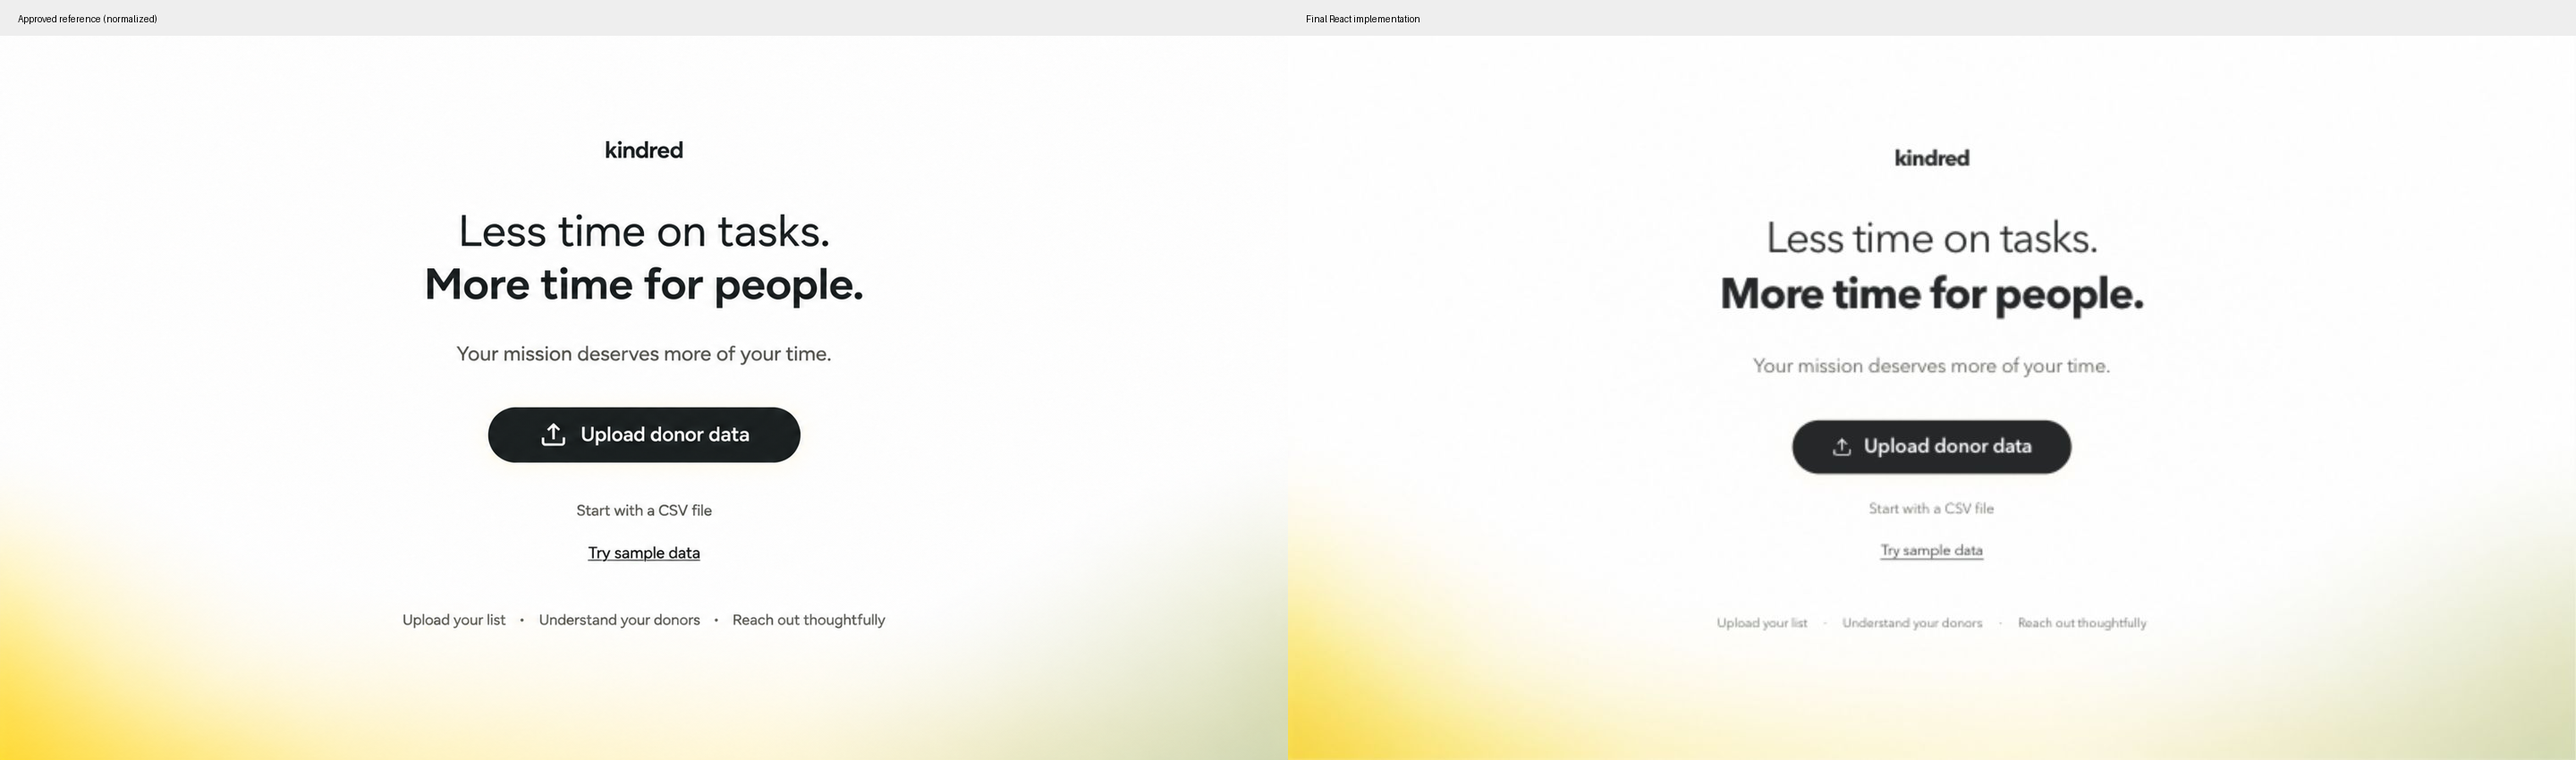
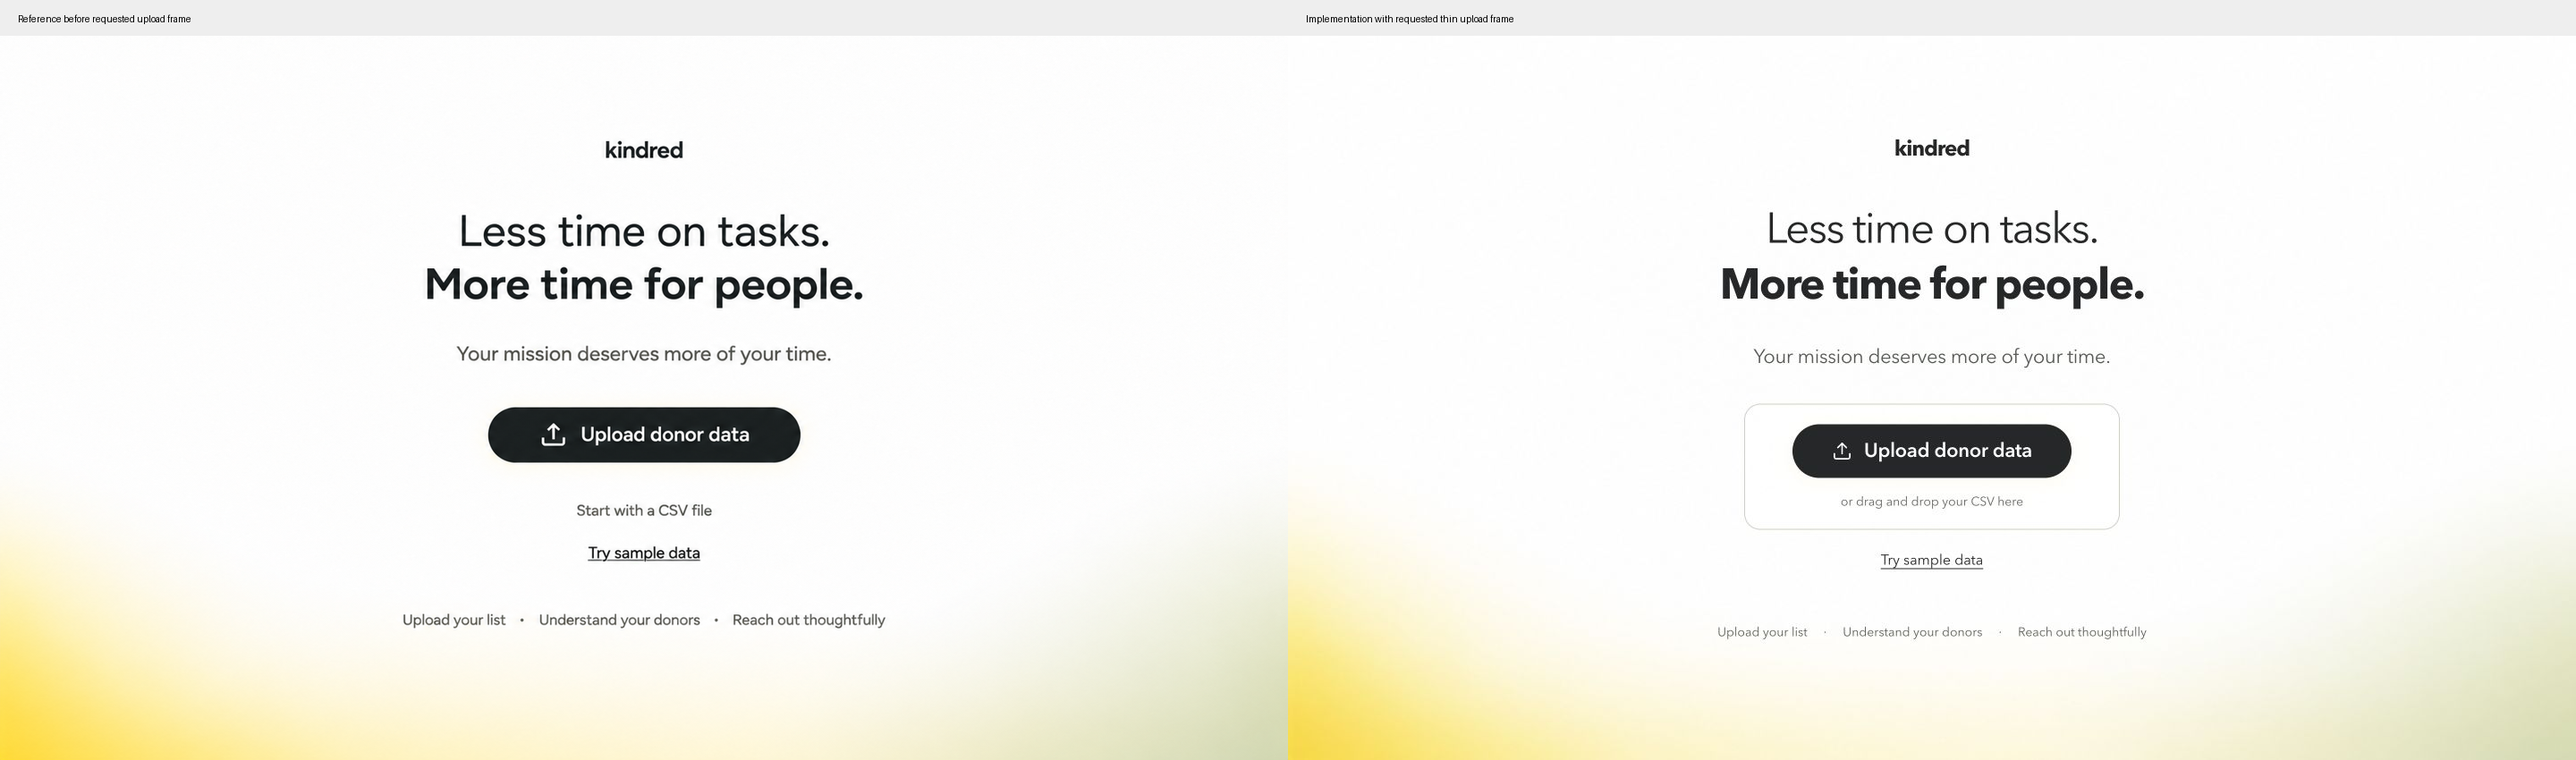
feat: add thin framed CSV drop area to landing page

diff --git a/web/src/components/atomic-crm/landing/KindredLanding.tsx b/web/src/components/atomic-crm/landing/KindredLanding.tsx
@@ -1,5 +1,6 @@
 import { useState, useSyncExternalStore, type ReactNode } from "react";
 import { Upload } from "lucide-react";
+import { useDropzone } from "react-dropzone";
 
 import {
   Dialog,
@@ -30,6 +31,22 @@ export const KindredLanding = () => {
   const [error, setError] = useState("");
   const [result, setResult] = useState<IngestResult | null>(null);
   const canUpload = DATA_MODE === "local";
+  const { getRootProps, getInputProps, open, isDragActive } = useDropzone({
+    accept: { "text/csv": [".csv"] },
+    multiple: false,
+    noClick: true,
+    noKeyboard: true,
+    disabled: pending,
+    onDrop: (accepted, rejected) => {
+      setResult(null);
+      setError("");
+      if (canUpload) {
+        setFile(accepted[0] ?? null);
+        if (rejected.length) setError("Please choose one CSV file at a time.");
+      }
+      setUploadOpen(true);
+    },
+  });
 
   const importDonors = async () => {
     if (!canUpload || !file || pending) return;
@@ -59,15 +76,38 @@ export const KindredLanding = () => {
         <p className="kindred-subtitle">
           Your mission deserves more of your time.
         </p>
-        <button
-          className="kindred-upload"
-          type="button"
-          onClick={() => setUploadOpen(true)}
+        <div
+          {...getRootProps({
+            className: `kindred-dropzone${isDragActive ? " is-dragging" : ""}`,
+            role: "group",
+            "aria-label": "Donor CSV drop area",
+          })}
         >
-          <Upload aria-hidden="true" size={23} strokeWidth={1.7} />
-          Upload donor data
-        </button>
-        <p className="kindred-file-hint">Start with a CSV file</p>
+          <input
+            {...getInputProps({
+              "aria-label": "Choose donor CSV",
+              disabled: !canUpload || pending,
+            })}
+          />
+          <button
+            className="kindred-upload"
+            type="button"
+            onClick={() => {
+              setResult(null);
+              setError("");
+              if (canUpload) open();
+              else setUploadOpen(true);
+            }}
+          >
+            <Upload aria-hidden="true" size={23} strokeWidth={1.7} />
+            Upload donor data
+          </button>
+          <p className="kindred-file-hint" aria-live="polite">
+            {isDragActive
+              ? "Drop your CSV here"
+              : "or drag and drop your CSV here"}
+          </p>
+        </div>
         <a className="kindred-sample" href="#/">
           Try sample data
         </a>
@@ -109,13 +149,14 @@ export const KindredLanding = () => {
                 id="kindred-csv"
                 type="file"
                 accept=".csv,text/csv"
-                required
+                required={!file}
                 disabled={pending}
                 onChange={(event) => {
                   setFile(event.target.files?.[0] ?? null);
                   setError("");
                 }}
               />
+              {file && <p role="status">Selected: {file.name}</p>}
               {error && <p role="alert">{error}</p>}
               <button
                 className="kindred-upload"

diff --git a/web/src/components/atomic-crm/landing/kindred-landing.css b/web/src/components/atomic-crm/landing/kindred-landing.css
@@ -60,6 +60,34 @@
   color: #545b51;
 }
 
+.kindred-dropzone {
+  inline-size: min(100%, 420px);
+  margin-block-start: 36px;
+  padding: 22px 24px 20px;
+  border: 1px solid #cbd0bf;
+  border-radius: 18px;
+  background: rgb(255 255 255 / 60%);
+  transition:
+    border-color 150ms ease,
+    background-color 150ms ease;
+}
+
+.kindred-dropzone.is-dragging,
+.kindred-dropzone:focus-within {
+  border-color: #697b55;
+  background: #fafbf6;
+}
+
+.kindred-dropzone .kindred-upload {
+  margin-block-start: 0;
+  max-inline-size: 100%;
+}
+
+.kindred-dropzone .kindred-file-hint {
+  margin-block-start: 16px;
+  font-size: 14px;
+}
+
 .kindred-upload {
   display: inline-flex;
   justify-content: center;
@@ -200,6 +228,15 @@
     padding-inline: 26px;
   }
 
+  .kindred-dropzone {
+    margin-block-start: 30px;
+    padding: 20px 16px 18px;
+  }
+
+  .kindred-dropzone .kindred-file-hint {
+    font-size: 13px;
+  }
+
   .kindred-file-hint {
     margin-block-start: 22px;
     font-size: 13px;
@@ -239,6 +276,10 @@
   .kindred-upload {
     margin-block-start: 28px;
   }
+  .kindred-dropzone {
+    margin-block-start: 28px;
+    padding-block: 18px;
+  }
   .kindred-file-hint {
     margin-block-start: 20px;
   }
@@ -251,7 +292,8 @@
 }
 
 @media (prefers-reduced-motion: reduce) {
-  .kindred-upload {
+  .kindred-upload,
+  .kindred-dropzone {
     transition: none;
   }
 }

diff --git a/docs/design/landing/design-qa.md b/docs/design/landing/design-qa.md
@@ -6,20 +6,21 @@ final result: passed
 
 This report covers the new landing entry in the primary React app (`web/`), not the separate static Kindred or outreach-inbox prototypes. The existing repository-root QA report for the older standalone prototype is unchanged.
 
-- Approved reference: `approved-reference.png`, 1672 × 941 pixels. White canvas, charcoal text/button, yellow/olive corner glows, very faded button backlight, and the user's final headline/subheadline.
+- Approved reference: `approved-reference.png`, 1672 × 941 pixels. White canvas, charcoal text/button, yellow/olive corner glows, very faded button backlight, and the user's final headline/subheadline. The subsequent explicit request adds a thin framed CSV drop area around the upload controls.
 - Implementation: `http://127.0.0.1:5174/`, using the existing `dev:demo` runtime.
 - Desktop: `desktop.png`, 1440 × 810 CSS/pixel viewport, device pixel ratio 1.
 - Phone: `mobile.png`, 390 × 844 CSS/pixel viewport, device pixel ratio 1.
 - Full comparison: `comparison.png`; reference proportionally normalized to 1440 × 810 alongside the implementation, with a 40px label strip.
 - Readable central crop comparison: `comparison-detail.png`; both normalized images cropped to the same 900 × 570 region.
-- Upload-dialog evidence: `upload-dialog.png`, snapshot mode. A later typography adjustment affects the background page, not the dialog tested here.
+- Upload-dialog evidence: `upload-dialog.png`, snapshot mode. Current screenshot includes the framed upload area behind the dialog.
 - State: initial landing page, light appearance, no selection/hover. Browser viewport overrides reset after verification.
 
 ## Findings and iteration history
 
 1. Initial comparison found supporting text and CTA too small relative to the approved still. Increased the supporting line from 19px to 22px; CTA label from 18px to 22px, its height from 56px to 60px, and horizontal padding from 34px to 44px. Helper/sample text increased from 14px to 16px.
 2. Shifted the centered content group upward 10px after the scale adjustment. The final paired full-view and focused comparisons retain generous section spacing and all information within the viewport.
-3. Final comparison: no actionable P0/P1/P2 findings. The actual font glyphs and separately generated ambient backdrop vary slightly from the raster reference (P3).
+3. Follow-up: added the requested 1px olive frame with an 18px radius around the upload controls, plus a drag-active treatment through the existing react-dropzone library. Rechecked all four viewports; the layout still fits without scrolling. This frame intentionally extends the supplied still in response to the user's request.
+4. Final comparison: no actionable P0/P1/P2 findings. The actual font glyphs and separately generated ambient backdrop vary slightly from the raster reference (P3).
 
 ## Required fidelity surfaces
 
@@ -27,7 +28,7 @@ This report covers the new landing entry in the primary React app (`web/`), not 
 - **Spacing/layout:** one centered content group on a full white canvas, with a small wordmark, headline, supporting line, one primary action, helper, sample link and quiet process line. No app rail or dashboard is shown on the landing page. Desktop 1440 × 810 and 1280 × 720, and phones 390 × 844 and 375 × 667, all have document dimensions equal to viewport dimensions: no scrolling or clipped content at those sizes. Smaller or text-zoomed views can scroll rather than losing content.
 - **Colors/tokens:** white surface, charcoal typography/CTA, muted olive secondary text, generated yellow/olive corner light. The button backlight is deliberately a faint 8% yellow shadow. Focus outlines use a visible olive tone. The existing workspace theme is not restyled.
 - **Image/assets:** the backdrop was generated with the built-in image tool from the approved reference; it contains no text, UI, shapes or center halo. The upload icon comes from the app's existing Lucide library. The layout does not replace imagery with CSS-drawn blobs or gradients.
-- **Copy/content:** exact user-approved headline “Less time on tasks. More time for people.” and subheadline “Your mission deserves more of your time.” Primary action remains “Upload donor data”; helper is “Start with a CSV file”; sample action is “Try sample data”.
+- **Copy/content:** exact user-approved headline “Less time on tasks. More time for people.” and subheadline “Your mission deserves more of your time.” Primary action remains “Upload donor data”; drop hint is “or drag and drop your CSV here”; sample action is “Try sample data”.
 
 ## Interaction and accessibility checks
 
@@ -37,6 +38,7 @@ This report covers the new landing entry in the primary React app (`web/`), not 
 - “Try sample data” opens the existing `#/` outreach workspace with its 12 sample donors and duplicate-review banner.
 - Existing `#/contacts` navigation and refresh continue to mount the workspace rather than showing the landing page.
 - Landing is re-enterable at `#/welcome` or the bare URL.
+- Local-mode file chooser was exercised with a synthetic `donors.csv`: selection opens the dialog, shows the filename, and enables import without requiring the same file again. A `.txt` selection is rejected and leaves import disabled. The shared react-dropzone acceptance callback handles both drops and picker selection; OS-level file dragging was not separately automated.
 - Local-mode CSV input has an associated label and required-file validation; its submit/pending/error/success states use the existing typed `uploadFiles` client. A live ingest service was not available in this check, so a live local-file import is not claimed.
 - Browser warning/error logs checked: no entries reported during the verified snapshot flow.
 

diff --git a/docs/demo-script.md b/docs/demo-script.md
@@ -10,7 +10,7 @@ the moment, not to more features.
 
 Open the bare app URL to show “Less time on tasks. More time for people.” with “Your mission deserves more of your time.” underneath. “Try sample data” opens the existing donor workspace at `#/`. Existing workspace deep links continue to open directly.
 
-“Upload donor data” opens a dialog. In the hosted snapshot build it explains that uploads need the local donor service and offers the sample workspace. With `VITE_DATA_MODE=local`, the CSV form uses the existing `uploadFiles` client and offers the workspace after a successful import. Live ingest remains dependent on the team's ingest service; this design change adds no backend ingestion behavior.
+The upload controls sit inside a thin outlined CSV drop area. In local mode, “Upload donor data” opens the file chooser; selecting or dropping a CSV opens the confirmation dialog with its filename. In the hosted snapshot build it explains that uploads need the local donor service and offers the sample workspace. With `VITE_DATA_MODE=local`, the CSV form uses the existing `uploadFiles` client and offers the workspace after a successful import. Live ingest remains dependent on the team's ingest service; this design change adds no backend ingestion behavior.
 
 ## Budget (60 s version)
 

diff --git a/ROADMAP.md b/ROADMAP.md
@@ -137,7 +137,7 @@ feasibility and reasoning · presentation. (`docs/event-brief.md` Q3)
 | 5.6 | Hide the atomic-crm Donors tab and other unused screens (if 5.1 = atomic-crm) | 80 | ⏸ | — | `plan.md` §12 |
 | 5.7 | Make the AI visible: label where the Agents SDK ran (research, draft) | 80 | ⏸ | — | rubric: use of OpenAI |
 | 5.8 | Merge PR #11 (UI data layer + screens) | lead (QA-gated) | ✅ | Nov 7 · PR #11 | D14 |
-| 5.9 | Kindred landing: centered one-screen layout, approved copy, white/yellow/olive palette, sample entry and shared upload client | Faye | ✅ built; review pending | Nov 7 · `codex/kindred-landing-design` | `docs/design/landing/design-qa.md` |
+| 5.9 | Kindred landing: centered one-screen layout, approved copy, white/yellow/olive palette, framed CSV drop area, sample entry and shared upload client | Faye | ✅ built; review pending | Nov 7 · `codex/kindred-landing-design` | `docs/design/landing/design-qa.md` |
 
 ### Phase 5B — Intelligent ICP, prospects, organization outreach
 **Goal:** "organizations that look like your best donors, and why" with sourced first-touch drafts. **Entry gate:** Phase 3. **Exit gate:** 6+ sourced prospects + drafts in the snapshot and the live API. **Status:** ⏳

diff --git a/docs/design/landing/README.md b/docs/design/landing/README.md
@@ -8,6 +8,8 @@ The primary React app now opens on the approved Kindred landing page at its bare
 
 The layout centers all information in one screen at the checked desktop and phone sizes. It uses white, charcoal, yellow and muted olive, with a very faded button backlight. Both app entry points use the shared `DonorDesk` component, so the normal and Vercel demo builds receive the same design.
 
+A thin outlined drop area surrounds the upload button. It accepts one CSV through drag-and-drop or the file chooser, highlights on drag/focus, and shows the selected filename before confirmation. Invalid file types are rejected.
+
 The upload dialog uses the existing data-mode boundary. Snapshot builds offer a sample workspace and explain that uploads need the local service. Local builds submit a CSV through the existing `uploadFiles` method and show success/errors; no new backend or ingest behavior is introduced.
 
 ## Review
